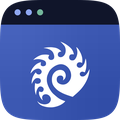
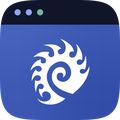
fix(brand): centre the mark on the glass, and let the hint say less
The tile's mark sat low: measured on the 120px file, 18.4 points of air
above it and 13.0 below. It was centred on a number rather than on the
screen — the glass runs from the bottom of the title bar to the bottom
edge, so its middle is `(CHROME_H + S) / 2`, and the constant now says that
instead of a literal that had drifted. Five points above true centre,
because the bottom corners round away and a mark on the exact middle still
reads as sitting low. Now 16.4 above, 16.0 below.

The Team hint also stops narrating the obvious. "The line under the
wordmark, top-left" describes what the user can already see the moment they
type; the examples are the part that does any work.

Changed region(s): [[0.25, 0.325, 0.75, 0.9]]

diff --git a/src/features/settings/components/appearance-section.tsx b/src/features/settings/components/appearance-section.tsx
@@ -115,7 +115,7 @@ export function AppearanceSection() {
 
       <SettingsGroup
         title="Team"
-        description="The line under the wordmark, top-left. Your team's name — “Assimilation Team”, “Zergling Battalion”."
+        description="Your team's name — “Assimilation Team”, “Zergling Battalion”."
       >
         <TextField
           label="Team name"

diff --git a/scripts/icon/generate-app-icon.py b/scripts/icon/generate-app-icon.py
@@ -199,8 +199,13 @@ CARET_H, CARET_W = 46, 350
 
 # The header tile is the same window with the prompt line taken out, so the mark
 # recentres on the glass and grows into the room the chevron and caret leave.
+#
+# Centred on the *screen*, not on the tile: the glass runs from the bottom of
+# the title bar to the bottom edge, so its middle is `(CHROME_H + S) / 2`. A few
+# points above that, because the bottom corners round away and a mark sitting on
+# the true centre reads as sitting low.
 TILE_MARK_SIZE = 560
-TILE_MARK_CY = 636
+TILE_MARK_CY = (CHROME_H + S) / 2 - 5
 
 
 def window(mark_size: float, mark_cx: float, mark_cy: float) -> Image.Image:
